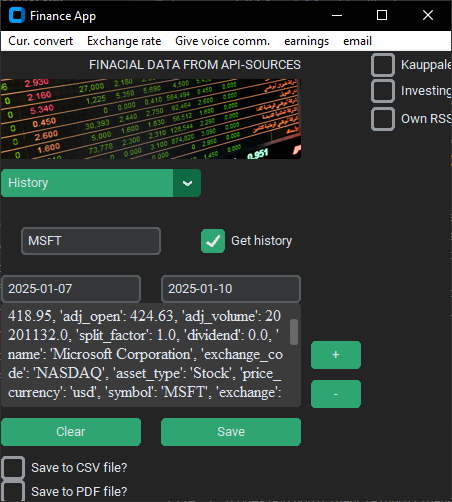
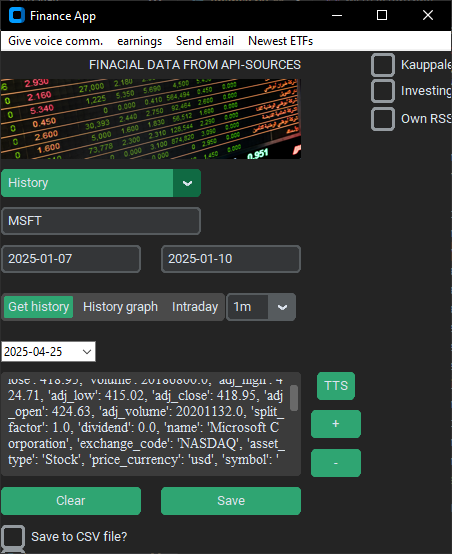
UI fixes

diff --git a/finance.py b/finance.py
@@ -138,7 +138,7 @@ class App(ctk.CTk,tk.Menu):
 
         #zoomintext metodi saa parametrina fontin tyypin (self.font) ja fontin koon (self.font._size)
         self.tts=ctk.CTkButton(self,width=20,text="TTS",command=lambda:self.opt.convertTts(self.textbox.get('1.0',END)))
-        self.tts.grid(row=8,column=2)
+        self.tts.grid(row=9,column=2,sticky="n")
         self.zoomIn=ctk.CTkButton(self,text="+",width=50,command=lambda:self.opt.zoomInText(self.font,self.font._size))
         self.zoomIn.grid(row=9,column=2,padx=10)
         self.zoomOut=ctk.CTkButton(self,text="-",width=50,command=lambda:self.opt.zoomOutText(self.font,self.font._size))
@@ -273,14 +273,14 @@ class App(ctk.CTk,tk.Menu):
 
             elif self.choice=="History":
                 self.codeEntry.grid(row=5, column=1,sticky="W")
-                self.historyOptions.grid(row=7,column=1,sticky="W")
+                self.historyOptions.grid(row=7,column=1,sticky="W",pady=10)
                 self.fromDate=ctk.CTkEntry(self,placeholder_text="FROM (YYYY-MM-DD)")
-                self.fromDate.grid(row=6,column=1,sticky="EW")
+                self.fromDate.grid(row=6,column=1,sticky="W",pady=10)
                 self.fromDate.bind("<Button>",self.calendarMethod)
                 self.toDate=ctk.CTkEntry(self,placeholder_text="TO (YYYY-MM-DD)")
                 self.toDate.bind("<Button>",self.setCalDateToEnd)
                 self.toDate.grid(row=6,column=1,sticky="E")
-                self.quantity.grid(row=7,column=2,sticky="E",padx=5)
+                self.quantity.grid(row=7,column=1,sticky="E",padx=5)
                 self.getBtn.grid_forget()
             elif self.choice=="Finance Dictionary":
                 self.codeEntry.grid(row=6,column=1,sticky="W",pady=5)
